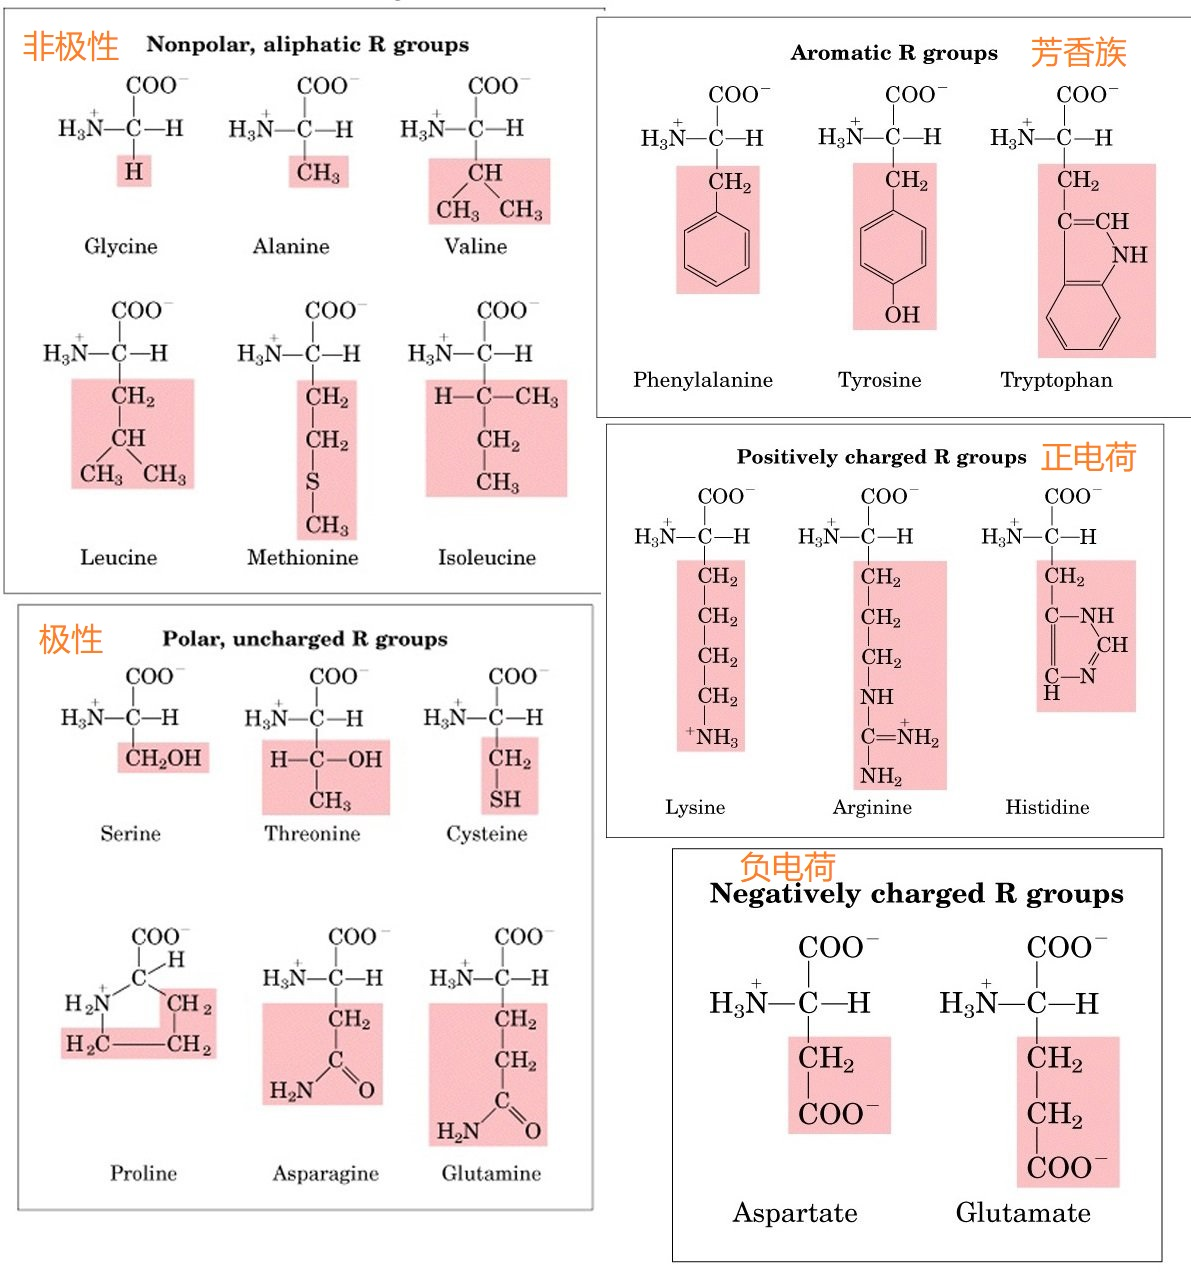
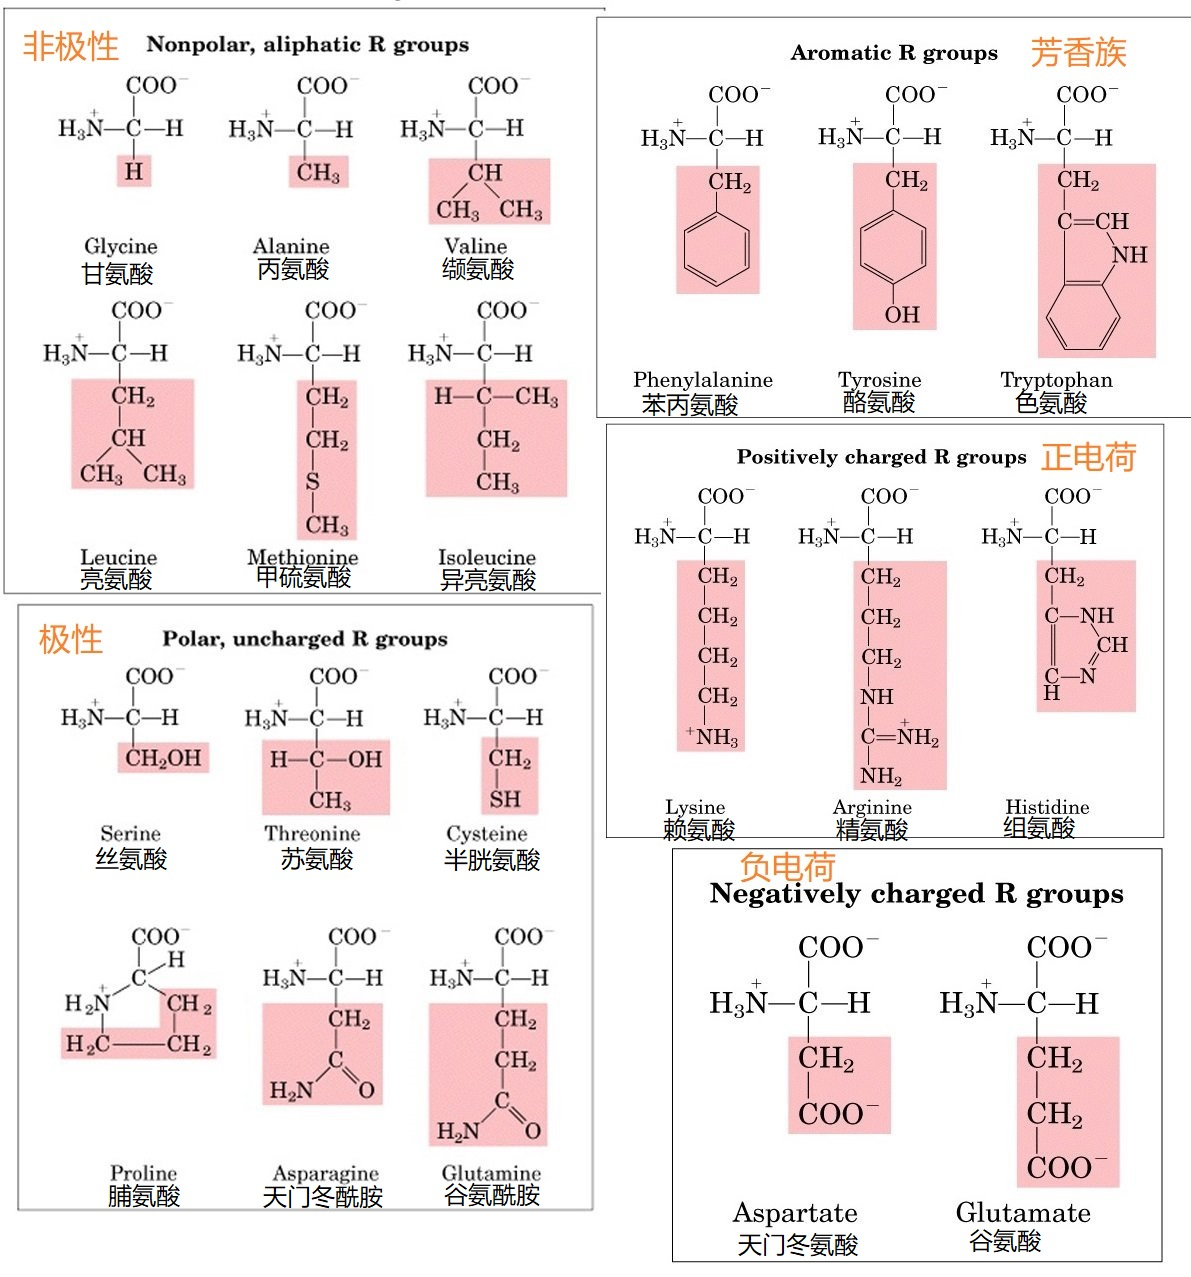
updaet

diff --git a/生物化学/氨基酸,肽和蛋白质.md b/生物化学/氨基酸,肽和蛋白质.md
@@ -10,39 +10,68 @@
 
 ## 转运蛋白 Transport Proteins
 
-+ Hemoglobin 血红蛋白
-    + ![image-20210915231811504](image/image-20210915231811504.png)
-    + 红细胞中携带氧气($or \ CO_2$)的蛋白
-+ Immunoglobulins 免疫球蛋白
-    + $a.k.a.$抗体 Antibodies
-    + 特异性识别并与抗原分子结合
-+ Ferritins 铁蛋白
-  + 重要的储铁蛋白
+### Hemoglobin 血红蛋白
+
+![image-20210915231811504](image/image-20210915231811504.png)
+
++ 红细胞中携带氧气($or \ CO_2$)的蛋白
+
+### Immunoglobulins 免疫球蛋白
+
++ $a.k.a.$抗体 Antibodies
++ 特异性识别并与抗原分子结合
+
+![image-20210923201140041](image/image-20210923201140041.png)
+
+### Ferritins 铁蛋白
+
++   重要的储存/解毒蛋白
+
+![image-20210923201030604](image/image-20210923201030604.png)
 
 ## 酶 Enzyme
-+ Luciferase 荧光素酶
-    + ![image-20210915232018136](image/image-20210915232018136.png)
-    + 氧化荧光素,副产物为光
+### Luciferase 荧光素酶
+
+![image-20210923201224235](image/image-20210923201224235.png)
+
++ 氧化荧光素,副产物为光
+
 + GFP Green fluorescent peotein
 
 ## 收缩蛋白
 
-Actin肌动蛋白 & Myosin 肌球蛋白
+### Actin肌动蛋白 & Myosin 肌球蛋白
+
+肌肉细胞中的纤维状蛋白,在收缩系统中起作用
+
+![image-20210923201458224](image/image-20210923201458224.png)
 
 ## 结构蛋白
-+ Collagen 胶原蛋白 & Elastin 弹力蛋白
-    + 结缔组织的纤维成分
-+ Keratin 角蛋白
+
+### Collagen 胶原蛋白 & Elastin 弹力蛋白
+
++ 结缔组织的纤维成分
+
+### Keratin 角蛋白
+
++   毛发,指甲等成分
 
 ## 受体蛋白 Rrceptor Proteins
 
-+ G protein-coupled receptors   GPCRs   G蛋白偶联受体
-    + 鸟苷酸结合蛋白
+### G protein-coupled receptors   GPCRs   G蛋白偶联受体
+
++ receptors that act through a member of the guanosine nucletide-binding protein, or G protein, family
++ 鸟苷酸结合蛋白
 
 # 氨基酸 Amino Acids
 
 +   蛋白质的基本单元,通过肽键(peptide bond)连接
 +   自然界中有约300中氨基酸,只有20中出现在蛋白质中
+
+![image-20210923202446228](image/image-20210923202446228.png)
+
++   所有20中常见氨基酸是 $\alpha$ 氨基酸,有一个羧基和一个氨基结合在同一个碳原子($\alpha$ 碳原子)上
++   20种氨基酸的区别是他们的侧链(R基), 其结构,大小,电荷量都会影响氨基酸的水溶性
 
 ## 基本结构
 
@@ -50,7 +79,11 @@ Actin肌动蛋白 & Myosin 肌球蛋白
 
 ### Configuration构型 : Enantiomer对映体
 
-主要是L型
++   天然氨基酸都是L型,除了甘氨酸没有D/L构型
+
++   除了甘氨酸(Glycine), 氨基酸的 $\alpha$ 碳原子是手性中心
+
+![image-20210923203721817](image/image-20210923203721817.png)
 
 ![](image/image-20210622090859881.png)
 
@@ -59,6 +92,8 @@ Actin肌动蛋白 & Myosin 肌球蛋白
 通过R基分类
 
 ![](image/Classification-of-amino-acids-on-the-basis-of-R-group.jpg)
+
+![image-20210923204934311](image/image-20210923204934311.png)
 
 ### 非极性脂[肪]族氨基酸
 
@@ -109,7 +144,7 @@ $Lambert-Beer$
 ### 极性不带电氨基酸
 水中更易溶
 + 丝氨酸 Serine
-+ 苏氨酸Threonine
++ 苏氨酸 Threonine
 + 半胱氨酸 Cysteine 侧链是巯基 巯基具有氧化还原性 二硫键的生成与断开是可逆的
 + 天冬氨酸 Asparagine
 + 谷氨酸 Glutamine
@@ -127,6 +162,7 @@ $Lambert-Beer$
 标记作用 
 
 ## 性质
+
 ### 兼性离子
 氨基酸的氨基和羧基，还有可电离的R基，共同作用为弱的酸和碱
 
